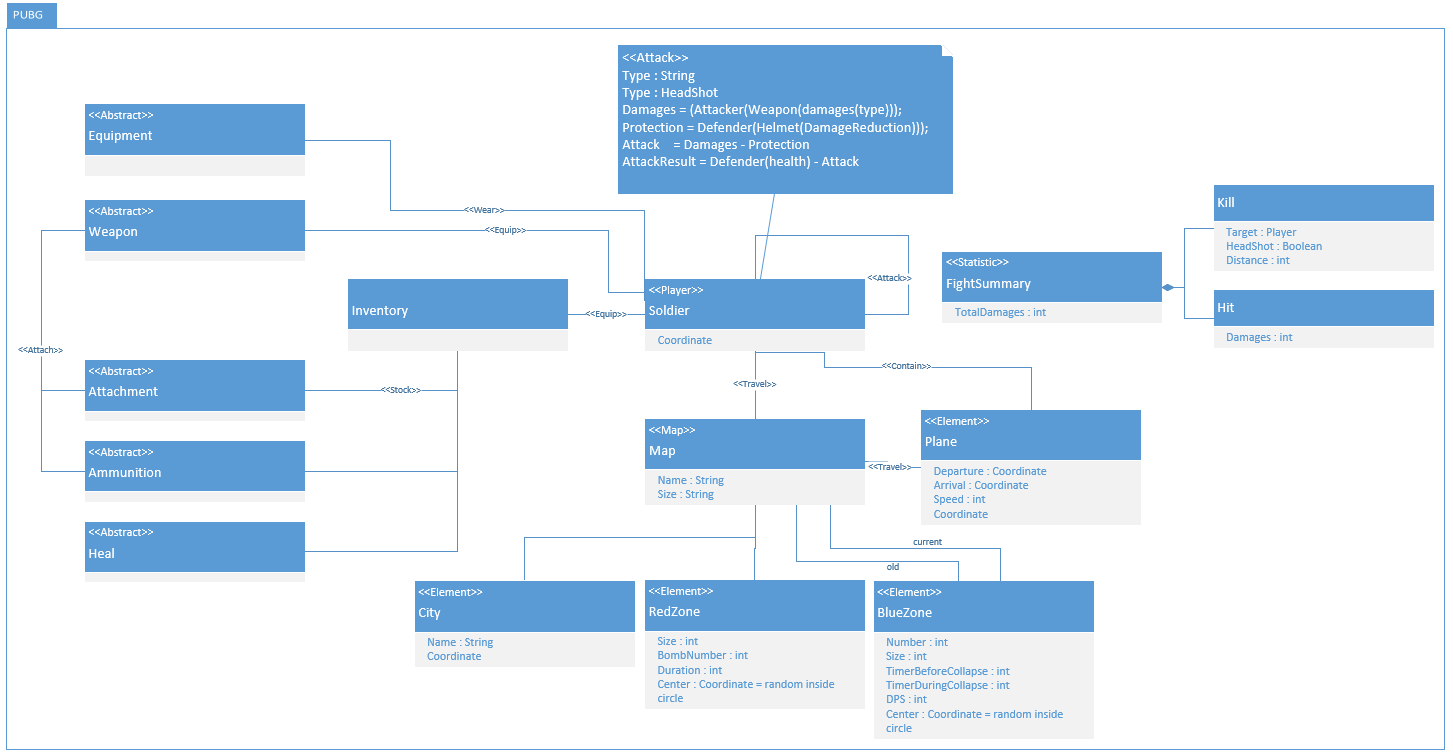
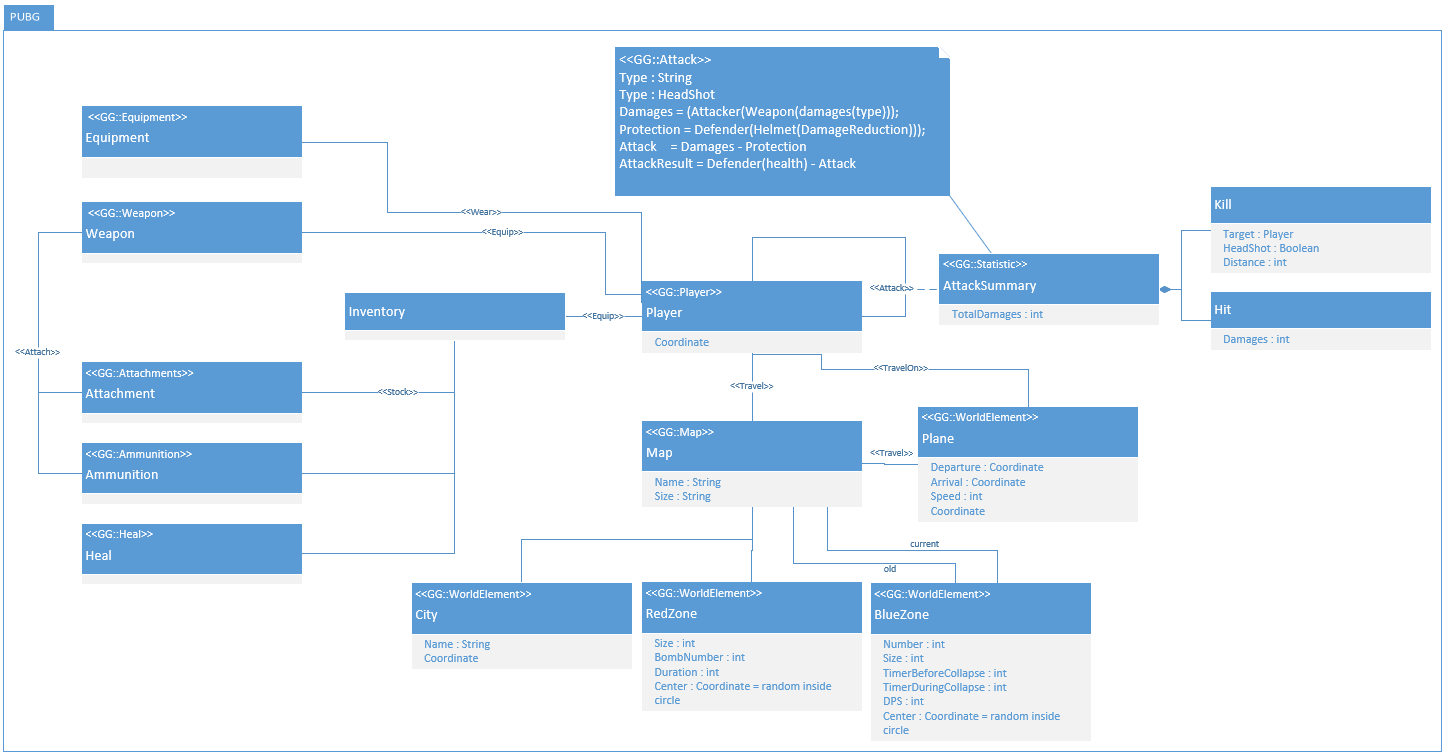
Update on Overleaf.

diff --git a/02_cor/12_application.tex b/02_cor/12_application.tex
@@ -1,18 +1,19 @@
 \chapter{Un exemple d'application du profil \emph{Game Genesis}~: Le jeu PUBG}
 
-\GT{Pas de [H] pour les figures, sauf si vraiment n\'ecessaire!}
+\gt{Pas de [H] pour les figures, sauf si vraiment n\'ecessaire!}
 
 
 \EH{Tout le chapitre est à revoir avec les nouveaux modèles etc.}
 
-\GT{Ci-bas: Est-ce que PUBG est encore un acronume de PlayerUnknown's
+\gt{Ci-bas: Est-ce que PUBG est encore un acronume de PlayerUnknown's
 Battlegrounds? Si oui, ce serait bien de le rappeler \`a nouveau.}
 
-PUBG est un jeu vidéo, sorti en 2017, qui compte d\'ej\`a des millions d'adeptes à travers le globe. Développé par \emph{PUBG Corporation} (filiale de B\emph{luehole, Inc.}, plus récemment de \emph{Krafton Game Union}), PUBG est un des premiers jeux \emph{standalone},%
-\footnote{Jeu \emph{standalone} : Logiciel informatique qui peut s'exécuter de manière indépendante \GT{Je ne comprends pas: Ind\'ependante de quoi? D'une machine? D'une plateforme de jeu?}}
+PUBG (PlayerUnknown's BattleGround) est un jeu vidéo, sorti en 2017, qui compte des millions de joueurs à travers le globe. Développé par \emph{PUBG Corporation} (filiale de B\emph{luehole, Inc.}, plus récemment de \emph{Krafton Game Union}), PUBG est un des premiers <<\emph{Last man standing game} \emph{standalone},%
+\footnote{Jeu \emph{standalone} (dans le cadre présent) : Jeu indépendant, qui n'est pas un contenu additionnel ou un module d'un autre jeu
+\gt{Je ne comprends pas: Ind\'ependante de quoi? D'une machine? D'une plateforme de jeu?}}
 %
 avec  \emph{Fortnite} (\emph{Epic Games}),
-permettant aux joueurs de participer à un <<\emph{Last man standing game}>>. Ces deux jeux ont été les premiers \emph{standalone} à populariser le \emph{Battle Royale} et à le mettre à la portée de tous sans devoir développer ou installer du contenu additionnel dans des jeux existants.
+permettant aux joueurs de participer à un >>. Ces deux jeux ont été les premiers \emph{standalone} à populariser le \emph{Battle Royale} et à le mettre à la portée de tous sans devoir développer ou installer du contenu additionnel dans des jeux existants.
 
 \gt{Des mods!?}
 
@@ -23,14 +24,14 @@ permettant aux joueurs de participer à un <<\emph{Last man standing game}>>. Ce
 
 \gt{Ci-bas: je ne comprends pas <<50 classes de troisi\`eme>>!?}
 
-\GT{Ci-bas: pas clair si le choix se fait parmi 50 classes ou si ce sont 50 classes qui sont choisies?}
+\gt{Ci-bas: pas clair si le choix se fait parmi 50 classes ou si ce sont 50 classes qui sont choisies?}
 
 Les jeux de type \emph{Battle Royale} trouvent leurs racines dans le roman <<\emph{Battle Royale}>>~\cite{takami2003battle} et son adaptation cinématographique.%
 %
 \footnote{\url{https://www.imdb.com/title/tt0266308}}
 %
 En gros, l'histoire va comme suit.
-Un programme militaire de simulation de combat a lieu dans une république socialiste d'Extrême-orient coupée du monde extérieur, extrêmement stable politiquement, o\`u les habitants n'ont aucun droit civique. Le programme militaire d\'ebute par un tirage au sort annuel de 50 classes d'élèves de troisième année. Une classe tirée au sort est alors déplacée chacune vers une zone de combat. Au début de l'expérience, tous les élèves sont réunis afin de recevoir un briefing rapide, puis se voient attribuer un sac contenant un seul objet (par ex., arme à feu, arme blanche, fourchette, corde de luth, etc). Les \'el\`eves sont ensuite transport\'es dans une zone donnée et livrés à eux-mêmes, en ayant pour seule consigne qu'aucune règle n'est imposée\ldots\ et qu'un seul survivant par groupe pourra être gagnant de l'expérience;  les autres devront être exterminés, et ce par n'importe quel moyen. Le champion obtient alors le droit de vivre aux frais de l'État pour le reste de ses jours et la reconnaissance comme <<~Héros du pays~>>.
+Un programme militaire de simulation de combat a lieu dans une république socialiste d'Extrême-orient coupée du monde extérieur, extrêmement stable politiquement, o\`u les habitants n'ont aucun droit civique. Le programme militaire d\'ebute par un tirage au sort annuel sur 50 classes d'élèves de troisième année. La classe tirée au sort est déplacée chacune vers une zone de combat. Au début de l'expérience, tous les élèves sont réunis afin de recevoir un briefing rapide, puis se voient attribuer un sac contenant un seul objet (par ex., arme à feu, arme blanche, fourchette, corde de luth, etc). Les \'el\`eves sont ensuite transport\'es dans une zone donnée et livrés à eux-mêmes, en ayant pour seule consigne qu'aucune règle n'est imposée\ldots\ et qu'un seul survivant par groupe pourra être gagnant de l'expérience;  les autres devront être exterminés, et ce par n'importe quel moyen. Le champion obtient alors le droit de vivre aux frais de l'État pour le reste de ses jours et la reconnaissance comme <<~Héros du pays~>>.
 
 \section{L'essor de la popularité du \emph{Battle Royale}}
 Bien que connu depuis l'ann\'ee 2000, l'intérêt pour le principe du \emph{Battle Royale} n'explose que plus tard, avec le succès de la saga \emph{Hunger Games}%
@@ -43,13 +44,10 @@ Le succès des \emph{Hunger Games} a amené les développeurs du jeu \emph{Arma 
 
 \section{Les règles de PUBG}
 Les r\`egles du jeu PUBG vont comme suit.
-Un avion parcourt une ligne droite au-dessus d'un territoire, et les 100 joueurs de la partie doivent sauter de cet avion afin d'être parachutés à l'endroit de leur choix --- à condition qu'il soit à portée de parachutage. Une fois arrivés au sol, les joueurs partent à la recherche d'armes et d'équipements dans des bâtiments et doivent s'exterminer jusqu'à ce qu'un seul joueur soit vivant et gagne ainsi la partie. Il est également possible de jouer en \'equipes de deux ou quatre joueurs, o\`u la dernière équipe encore vivante est l'\'equipe gagnante. Afin de limiter la durée d'une partie, une zone circulaire est définie sur la carte une fois que tous les joueurs ont atterri, et cette zone se réduit au cours de la partie --- ce qu'on appelle la \emph{RedZone}. Les joueurs en dehors de la zone subissent une certaine quantité de dégâts s'ils restent \`a l'ext\'erieur de la zone circulaire, et ces dégâts augmentent au fur et à mesure que le cercle se resserre.
+Un avion parcourt une ligne droite au-dessus d'un territoire, et les 100 joueurs de la partie doivent sauter de cet avion afin d'être parachutés à l'endroit de leur choix --- à condition qu'il soit à portée de parachutage. Une fois arrivés au sol, les joueurs partent à la recherche d'armes et d'équipements dans des bâtiments et doivent tuer les autres joueurs jusqu'à ce qu'il ne reste qu'un seul vivant. Le dernier survivant gagne ainsi la partie. Il est également possible de jouer en \'equipes de deux ou quatre joueurs, o\`u la dernière équipe encore vivante est l'\'equipe gagnante. Afin de limiter la durée d'une partie, une zone circulaire est définie sur la carte une fois que tous les joueurs ont atterri, et cette zone se réduit au cours de la partie --- ce qu'on appelle la \emph{Blue Zone}. Les joueurs en dehors de la zone subissent une certaine quantité de dégâts s'ils restent \`a l'ext\'erieur de la zone circulaire, et ces dégâts augmentent au fur et à mesure que le cercle se resserre. Une autre zone apparaît également sur la carte : la \emph{Red Zone}. C'est une zone de bombardement qui change d'emplacement régulièrement dans une partie. Une fois déclenchée plusieurs bombes tombent au sol, une bombe suffit à tuer un joueur.
 %
-\AVERIFIER{On retrouve aussi une zone circulaire, la \emph{BlueZone},
-qui apparait de fa\c{c}on al\'eatoire, zone dans laquelle ont lieu des
-bombardements.}
 
-\GT{Ci-haut: puisque cela apparait dans le mod\`ele, il faut dire
+\gt{Ci-haut: puisque cela apparait dans le mod\`ele, il faut dire
 quelques mots sur les deux zones.  Note que j'ai peut-\^etre
 m\'elang\'e les deux zones (Red vs.\ Blue).}
 
@@ -83,9 +81,9 @@ Cependant, l'exactitude des informations n'a pas une importance cruciale dans le
     \label{fig.racine_stereo}
 \end{figure}
 
-\GT{Tu n'as pas r\'ef\'er\'e et d\'ecrit la figure~\ref{fig.modelisation_application}!}
+\gt{Tu n'as pas r\'ef\'er\'e et d\'ecrit la figure~\ref{fig.modelisation_application}!}
 
-\ACOMPLETER{La Figure~\ref{fig.modelisation_application} pr\'esente...}
+Afin de pouvoir utiliser \emph{Game Genesis} dans un modèle il faut d'abord modéliser l'application du profil sur le modèle en question, c'est ce qui est représenté dans la Figure~\ref{fig.modelisation_application}.
 
 
 Les stéréotypes présents dans \emph{Game Genesis} permettent de classifier les \'el\'ements de \emph{Mechanics} pour la rédaction d'un GDD.
@@ -100,7 +98,7 @@ Ajouter de tels attributs permet d'inclure automatiquement les attributs dans le
 
 
 
-\GT{Plusieurs remarques sur la figure, \`a voir dans le source \LaTeX:
+\gt{Plusieurs remarques sur la figure, \`a voir dans le source \LaTeX:
 begin/end\{comment\}}
 
 \begin{comment}
@@ -153,7 +151,7 @@ minuscule.
 r\'ef\`eres \`a \texttt{Player68} (ou 25) alors que, formellement, n'y
 a pas de classe qui porte ce nom.}
 
-\GT{Non, tu ne dois pas parler d'initialisation. Tu dois plut\^ot
+\gt{Non, tu ne dois pas parler d'initialisation. Tu dois plut\^ot
 pr\'esenter cela comme un mod\`ele qui d\'ecrit les \'el\'ements
 requis pour repr\'esenter les informations d'une partie de PUBG, pas
 juste son <<initialisation>>!}
@@ -164,67 +162,21 @@ partie de PUBG.
 %
 Cependant, décrire l'intégralité du système serait extrêmement long et complexe. Nous allons donc nous concentrer sur certains \'el\'ements plus int\'eressants qui seront décrits plus en détails.
 
-\GT{Pr\'ef\'erable d'\'eviter <<parties du jeu>> (parts of the game)
+\gt{Pr\'ef\'erable d'\'eviter <<parties du jeu>> (parts of the game)
 pour ne pas confondre avec <<une partie du jeu>> (une instance du jeu
 en cours d'ex\'ecution).}
 
-\subsubsection{Représentation des diff\'erents {items}}
-
-\GT{Ci-bas: il faut changer les noms. Comme indiqu\'e plus haut, tu ne
-dois pas confondre Classes abstraites --- comme racine d'un
-sous-diagramme avec plus de d\'etail --- et st\'er\'eotypes.}
-
-
-\GT{Il faut que je revois cette partie et, surtout, que j'y
-r\'efl\'echisse un peu pour ensuite te faire des suggestions plus
-sp\'ecifiques... parce que je ne suis pas du tout certain que cette
-partie soit correctement pr\'esent\'ee~:(}
-
-
-Dans la Figure~\ref{fig.PUBG_model}, on peut noter la présence de cinq classes abstraites : \texttt{Equipment}, \texttt{Weapon}, \texttt{Attachment}, \texttt{Ammunition}, \texttt{Heal}.
-
-Ces éléments sont des classes abstraites afin de représenter des catégories de sous-classes. Le nombre de classes présentes dans ces catégories est important et les détails de ces éléments ne sont pas essentiels à la compréhension du modèle.
-
-Afin de mieux comprendre le contenu de ces catégories, nous allons donner un exemple rapide qui servira à la Section~\ref{sect.attack}.
-
-Tel que mentionn\'e pr\'ec\'edemment, PUBG est un \emph{Battle Royale}, et qui comporte énormément d'armes différentes. \emph{Game Genesis} classifie ces armes dans la partie \texttt{Weapon}~\ref{A-Weapon}. Dans PUBG, on retrouve donc des armes catégorisées comme \texttt{SniperRifle}. C'est le cas du \texttt{Kar98k}, du \texttt{M24} et de l'\texttt{AWM}.
-
-Afin de comprendre comment fonctionnent les classes abstraites décrites dans la Figure~\ref{fig.PUBG_model}, nous allons représenter le modèle qui amènerait de la classe abstraite (Figure~\ref{fig.abstract_weapon}) vers les trois armes citées précédemment dans la Figure~\ref{fig.example_sniper}.
-
-
-\begin{figure}
-    \centering
-    \includegraphics[width=6cm]{10_img/chap6/weap.PNG}
-    \caption{La classe abstraite \texttt{Weapon}.}
-    \label{fig.abstract_weapon}
-\end{figure}
-
-\begin{figure}
-    \centering
-    \includegraphics[width=10cm]{10_img/chap6/snipers.PNG}
-    \caption{De la classe abstraite \texttt{Weapon} vers les classes de \texttt{SniperRifle} spécifiques.}
-    \label{fig.example_sniper}
-\end{figure}
-
-
-Pour représenter toutes les armes de PUBG il faudrait reproduire la Figure~\ref{fig.PUBG_kar98} pour l'intégralit des 52 armes présentes dans PUBG.
-
-\begin{figure}
-    \centering
-    \includegraphics[width=6cm]{10_img/chap6/kar98k.PNG}
-    \caption{La représentation finale simulée d'un \texttt{Kar98k} avec ses attributs.}
-    \label{fig.PUBG_kar98}
-\end{figure}
 
 
 
 
-\subsubsection{Un joueur en attaque un autre}
+
+\subsection{Un joueur en attaque un autre}
 \label{sect.attack}
 
 \begin{figure}
     \centering
-    \includegraphics[width=7cm]{10_img/chap6/attack_min.PNG}
+    \includegraphics[width=6cm]{10_img/chap6/attack_min.PNG}
     \caption{Le mod\`ele pour un \texttt{Soldier} qui en attaque un autre.}
     \label{fig.PUBG_attack_min}
 \end{figure}
@@ -255,7 +207,7 @@ Cette formule de calcul des dégâts est présente dans l'association entre les 
 
 \begin{figure}
     \centering
-    \includegraphics[width=6cm]{10_img/chap6/p_attack_p.PNG}
+    \includegraphics[width=7cm]{10_img/chap6/p_attack_p.PNG}
     \caption{Le calcul des dégâts d'une attaque.}
     \label{fig.PUBG_attack_degats}
 \end{figure}
@@ -263,7 +215,7 @@ Cette formule de calcul des dégâts est présente dans l'association entre les 
 On considère alors que le \emph{game designer} a raffin\'e la classe utilisant le stéréotype \texttt{Attack} de \emph{Game Genesis} afin que toutes les actions d'attaque soient régies par cette formule.
 
 
-\GT{Quand tu dis <<formule suivante~:>> ou <<simulation suivante~:>>
+\gt{Quand tu dis <<formule suivante~:>> ou <<simulation suivante~:>>
 et que tu fais suivre par quelque chose, alors tu ne dois pas utiliser
 un float, i.e., figure ou table.}
 
@@ -359,6 +311,65 @@ entre chevrons, <<Wear>>, <<Equip>>, etc.}
 
 Comme décrit \`a la Section~\ref{sect.gg_what}, nous avons utilisé des classes afin de représenter les éléments du jeu, alors que des associations entre classes représentent les interactions possibles entre éléments du jeu.
 Sur ces classes et associations, nous avons appliqué les stéréotypes du profil \emph{Game Genesis} afin de pouvoir classifier et spécialiser les différents éléments modélisés.
+
+
+
+
+%%%%%%% USELESS SECTION (abstract) %%%%%%%%%
+
+
+\subsubsection{Représentation des diff\'erents {items}}
+
+\GT{Ci-bas: il faut changer les noms. Comme indiqu\'e plus haut, tu ne
+dois pas confondre Classes abstraites --- comme racine d'un
+sous-diagramme avec plus de d\'etail --- et st\'er\'eotypes.}
+
+
+\GT{Il faut que je revois cette partie et, surtout, que j'y
+r\'efl\'echisse un peu pour ensuite te faire des suggestions plus
+sp\'ecifiques... parce que je ne suis pas du tout certain que cette
+partie soit correctement pr\'esent\'ee~:(}
+
+
+Dans la Figure~\ref{fig.PUBG_model}, on peut noter la présence de cinq classes abstraites : \texttt{Equipment}, \texttt{Weapon}, \texttt{Attachment}, \texttt{Ammunition}, \texttt{Heal}.
+
+Ces éléments sont des classes abstraites afin de représenter des catégories de sous-classes. Le nombre de classes présentes dans ces catégories est important et les détails de ces éléments ne sont pas essentiels à la compréhension du modèle.
+
+Afin de mieux comprendre le contenu de ces catégories, nous allons donner un exemple rapide qui servira à la Section~\ref{sect.attack}.
+
+Tel que mentionn\'e pr\'ec\'edemment, PUBG est un \emph{Battle Royale}, et qui comporte énormément d'armes différentes. \emph{Game Genesis} classifie ces armes dans la partie \texttt{Weapon}~\ref{A-Weapon}. Dans PUBG, on retrouve donc des armes catégorisées comme \texttt{SniperRifle}. C'est le cas du \texttt{Kar98k}, du \texttt{M24} et de l'\texttt{AWM}.
+
+Afin de comprendre comment fonctionnent les classes abstraites décrites dans la Figure~\ref{fig.PUBG_model}, nous allons représenter le modèle qui amènerait de la classe abstraite (Figure~\ref{fig.abstract_weapon}) vers les trois armes citées précédemment dans la Figure~\ref{fig.example_sniper}.
+
+
+\begin{figure}
+    \centering
+    \includegraphics[width=6cm]{10_img/chap6/weap.PNG}
+    \caption{La classe abstraite \texttt{Weapon}.}
+    \label{fig.abstract_weapon}
+\end{figure}
+
+\begin{figure}
+    \centering
+    \includegraphics[width=10cm]{10_img/chap6/snipers.PNG}
+    \caption{De la classe abstraite \texttt{Weapon} vers les classes de \texttt{SniperRifle} spécifiques.}
+    \label{fig.example_sniper}
+\end{figure}
+
+
+Pour représenter toutes les armes de PUBG il faudrait reproduire la Figure~\ref{fig.PUBG_kar98} pour l'intégralit des 52 armes présentes dans PUBG.
+
+\begin{figure}
+    \centering
+    \includegraphics[width=6cm]{10_img/chap6/kar98k.PNG}
+    \caption{La représentation finale simulée d'un \texttt{Kar98k} avec ses attributs.}
+    \label{fig.PUBG_kar98}
+\end{figure}
+
+
+
+
+
 
 \end{comment}
 %%%%%%%%%%%%%%%%%%%%%%%%%%%%%%%%%%%%%%%%%%%%%%%%%%%%%%%%%%%%%%%%%%%%%%%%%%%%%%%%%%%%%%%
